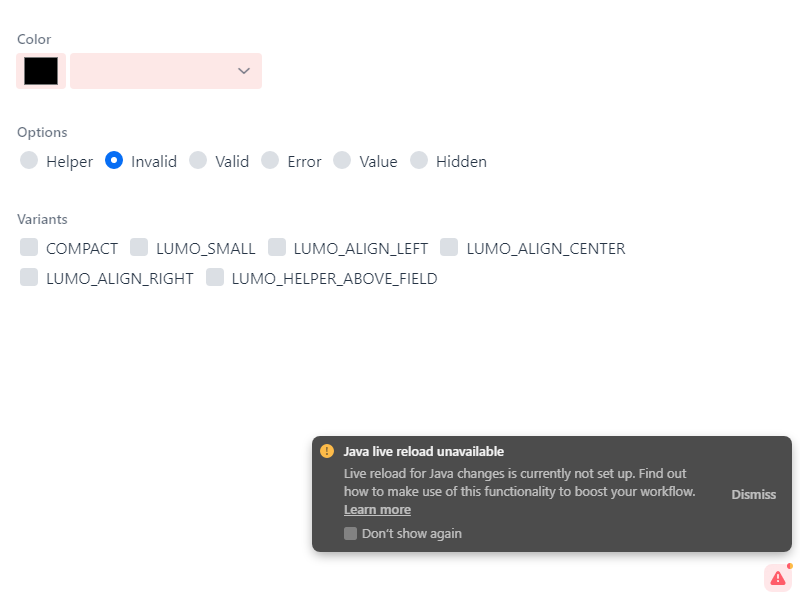
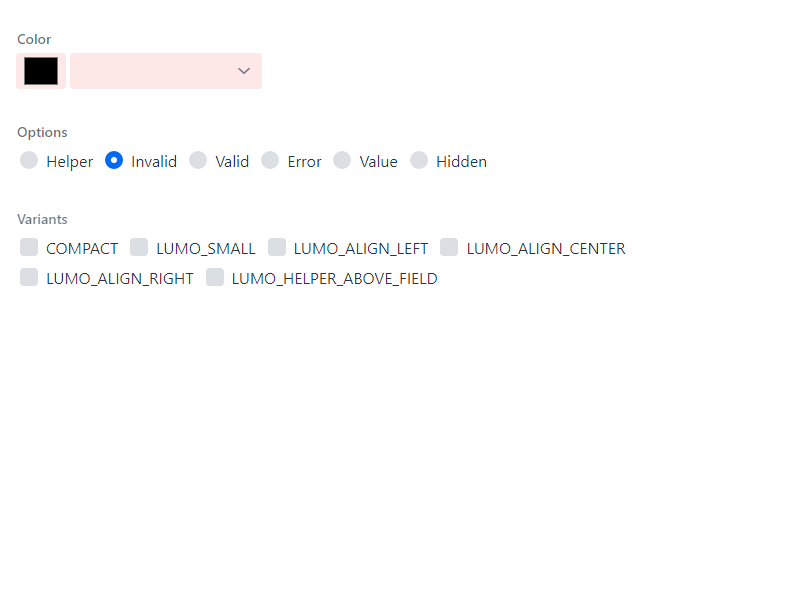
Hide dev mode gizmo in screenshot tests

diff --git a/src/test/java/org/vaadin/addons/tatu/ColorPickerIT.java b/src/test/java/org/vaadin/addons/tatu/ColorPickerIT.java
@@ -1,6 +1,8 @@
 package org.vaadin.addons.tatu;
 
 import java.io.IOException;
+import java.time.Duration;
+import java.util.concurrent.TimeUnit;
 
 import org.junit.Assert;
 import org.junit.Before;
@@ -39,6 +41,7 @@ public class ColorPickerIT extends AbstractViewTest {
         field = colorPicker.$(CustomFieldElement.class).first();
         options = $(RadioButtonGroupElement.class).first();
         variants = $(TestBenchElement.class).first();
+        $("vaadin-dev-tools").first().setProperty("hidden", true); // Hides devmode gizmo
     }
 
     @Test
@@ -112,7 +115,7 @@ public class ColorPickerIT extends AbstractViewTest {
 
     @Test
     public void colorPickerInvalidScreenshotTest() throws IOException {
-        options.selectByText("Invalid");
+        options.selectByText("Invalid");        
         Assert.assertTrue(testBench().compareScreen(ImageFileUtil.getReferenceScreenshotFile("color-picker-invalid.png")));
     }
 

diff --git a/src/test/java/org/vaadin/addons/tatu/AbstractViewTest.java b/src/test/java/org/vaadin/addons/tatu/AbstractViewTest.java
@@ -66,7 +66,7 @@ public abstract class AbstractViewTest extends TestBenchTestCase {
         Parameters.setScreenshotComparisonTolerance(0.05);
         Parameters.setScreenshotComparisonCursorDetection(true);
         testBench().resizeViewPortTo(800, 600);
-        Parameters.setMaxScreenshotRetries(2);
+        Parameters.setMaxScreenshotRetries(3);
         Parameters.setScreenshotRetryDelay(1000); 
         
         // Wait for frontend compilation complete before testing
